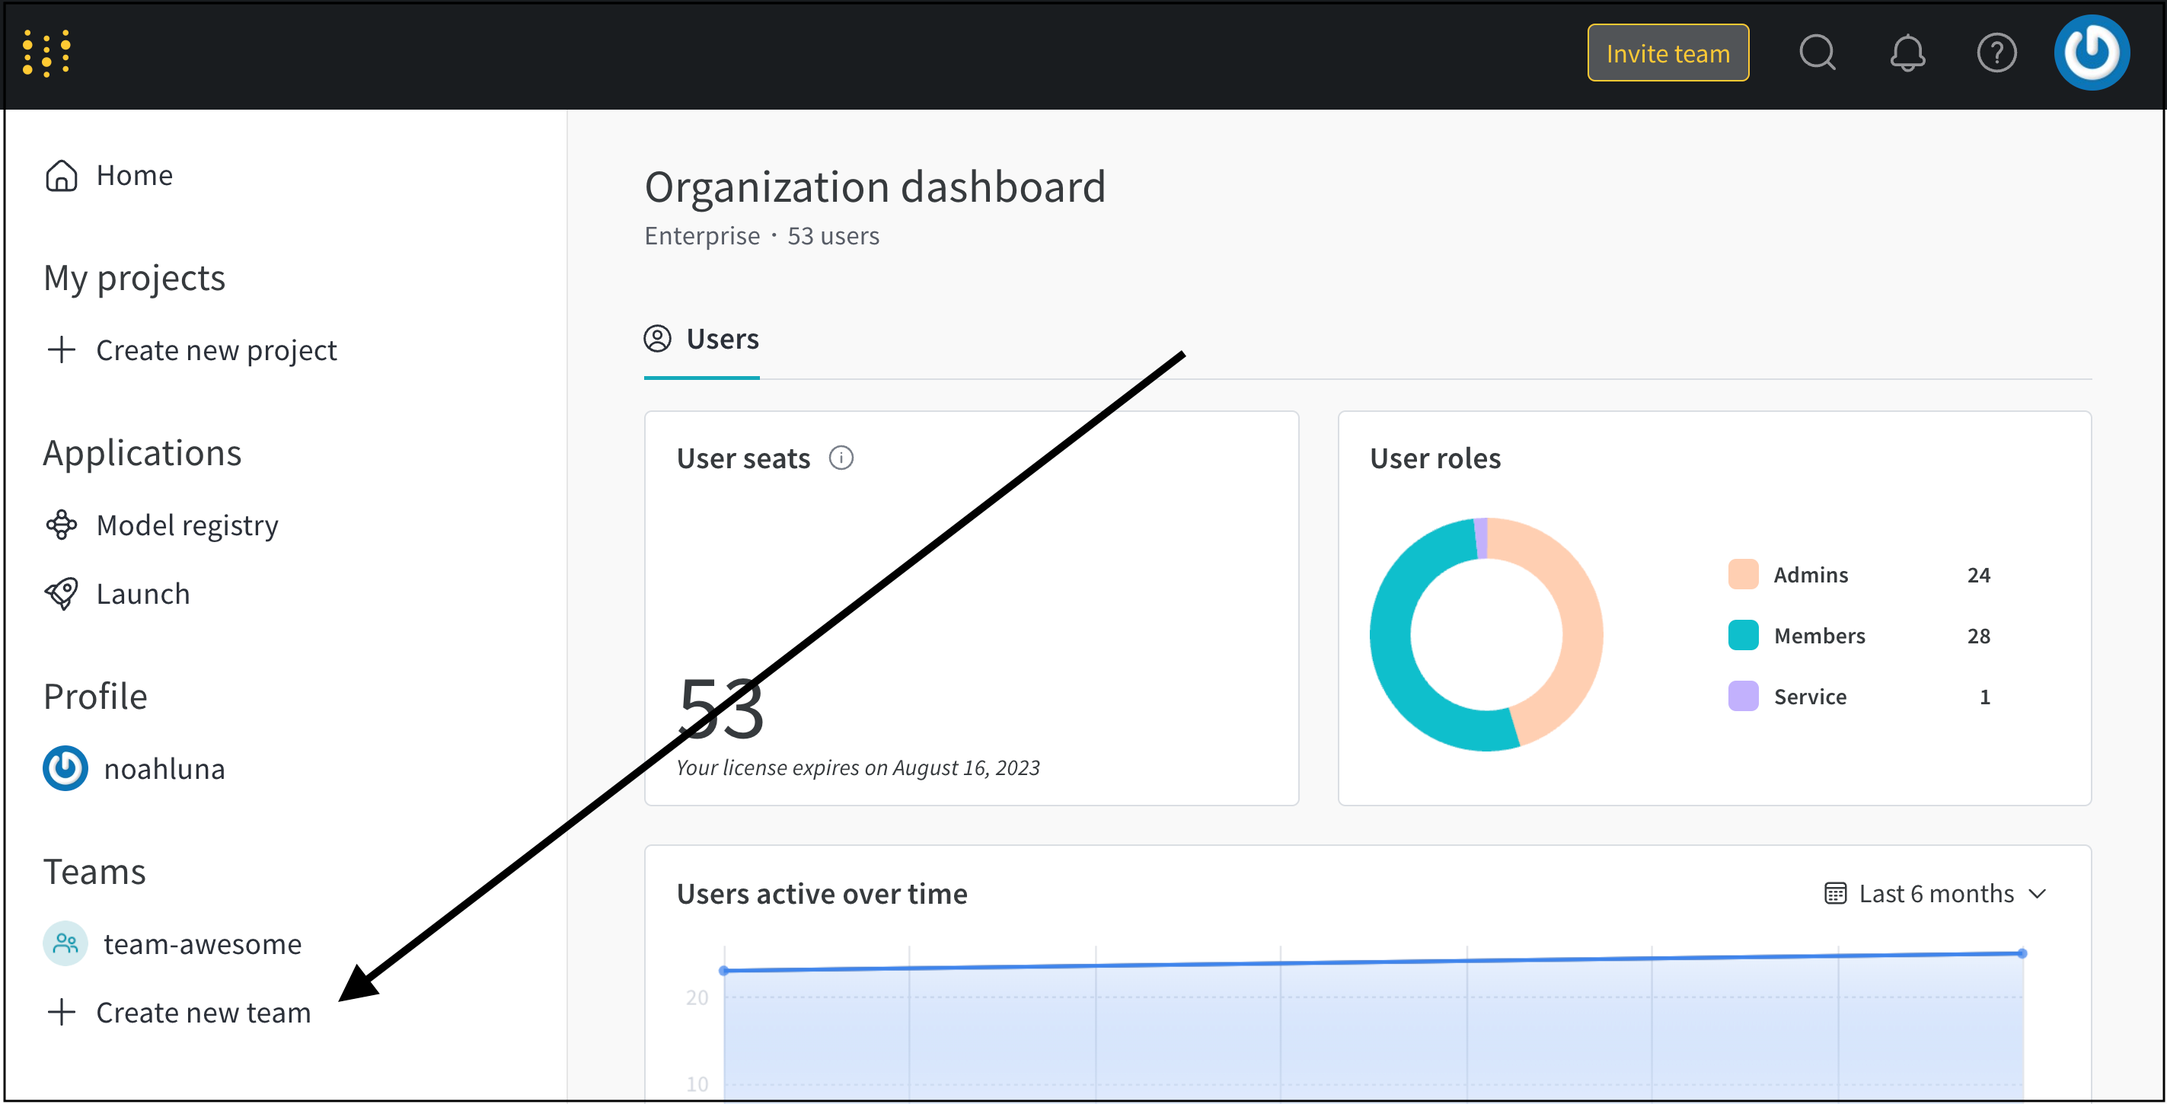
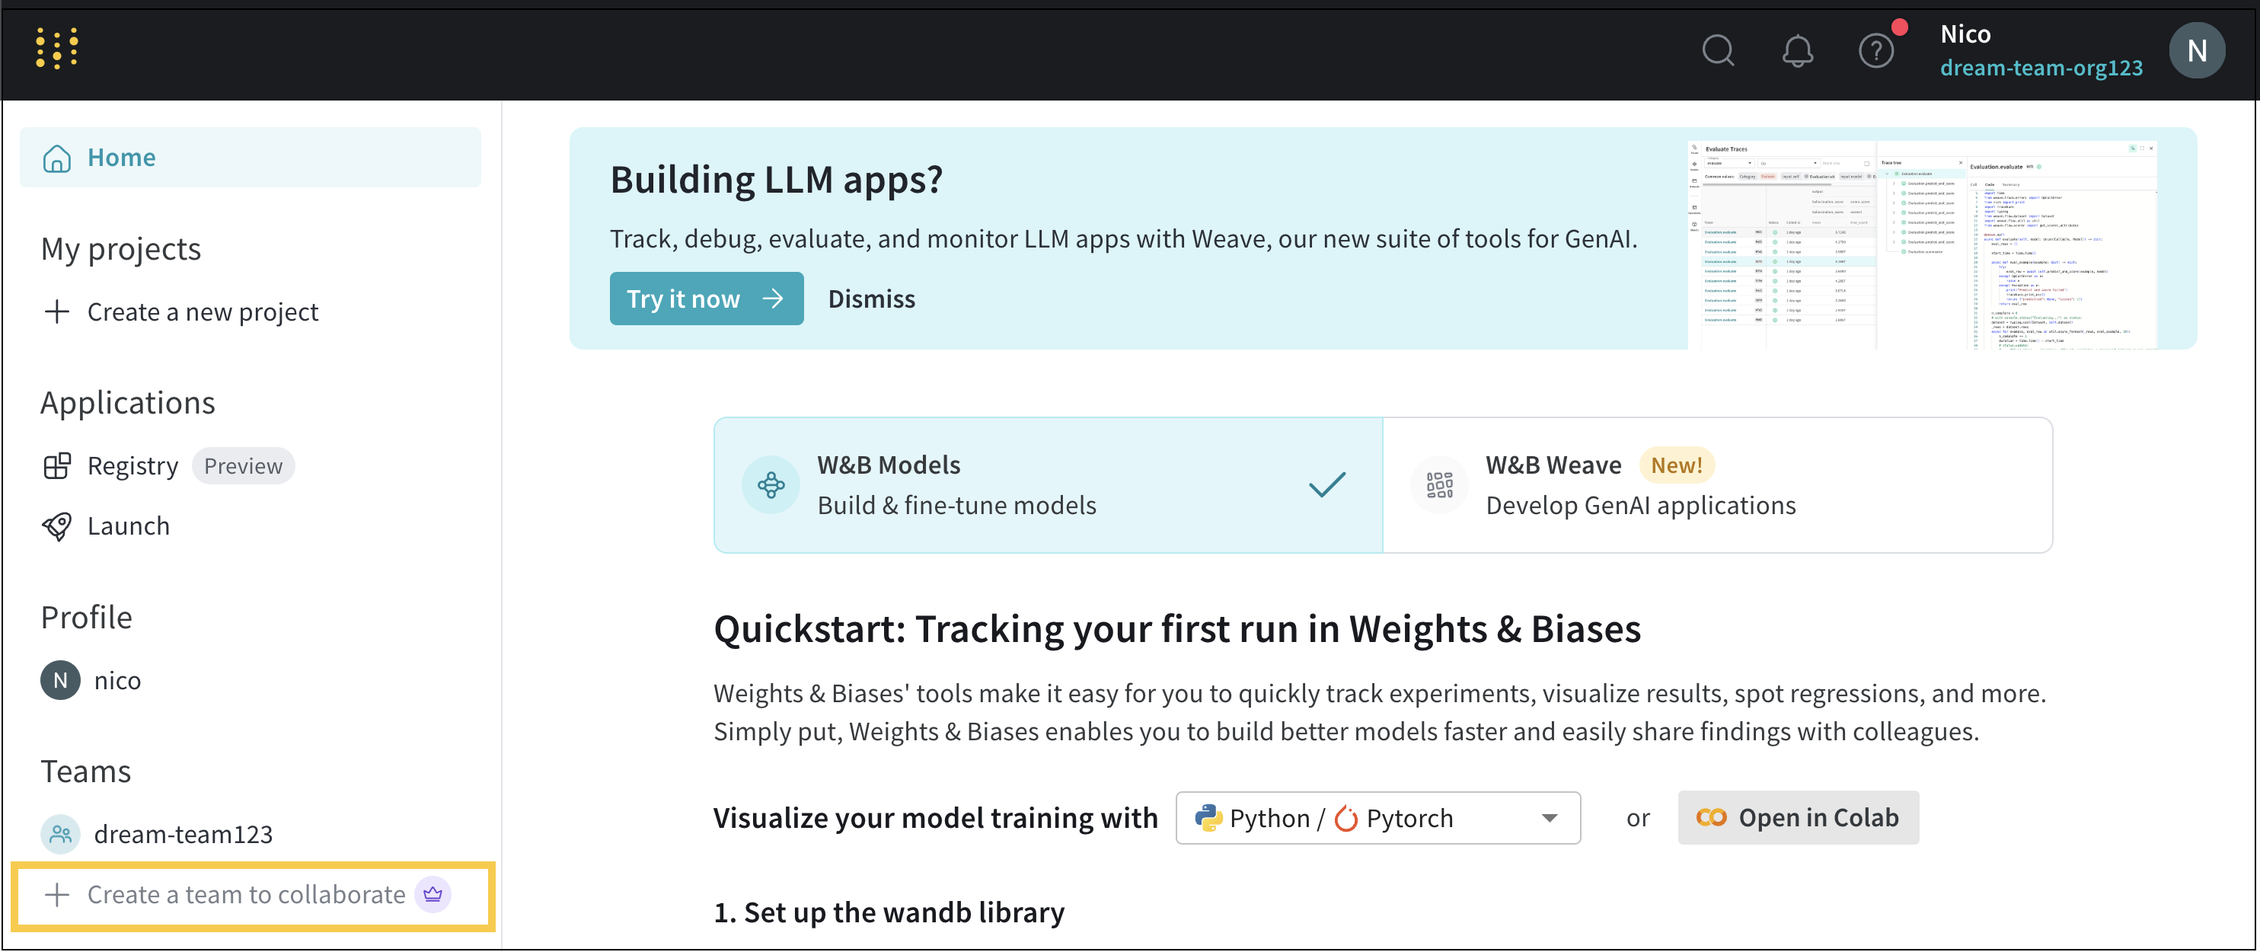
Add Manage your org doc and landing page for extra content...WIP

diff --git a/sidebars.js b/sidebars.js
@@ -393,8 +393,9 @@ const sidebars = {
             {
               type: 'category',
               label: 'Access management',
+              link: {type: 'doc', id: 'guides/hosting/iam/access-management-intro'},
               items: [
-                'guides/hosting/iam/manage-users',
+                'guides/hosting/iam/manage-organization',
                 'guides/hosting/iam/restricted-projects',
               ],
             },

diff --git a/docs/guides/hosting/iam/manage-organization.md b/docs/guides/hosting/iam/manage-organization.md
@@ -1,0 +1,187 @@
+---
+displayed_sidebar: default
+---
+
+# Mange your organization
+
+Manage W&B users in your organization or team. 
+
+The following guide applies to the administrator (admin) of an organization.
+
+
+If you are looking to simplify user management in your organization, refer to [Automate user and team management](./automate_iam.md).
+
+
+## Change the name of your organization
+
+
+
+## Add and manage users
+
+### Invite a user
+
+1. Navigate to your W&B Organization's dashboard at: https://wandb.ai/home
+2. Select the **Users** tab.
+3. Choose **Invite new user**.
+4. In the modal that appears, provide the email or username of the user in the Email or username field.
+5. (Optional but recommended) Add the user to a team from the **Choose team(s)** dropdown menu. You can alternatively [automatically assign a user to a team if their domain matches](#automatically-add-new-users-to-a-team). 
+6. From the **Select role** dropdown, select the role to assign to the user. You can change the user's role at a later time. See the table listed in [Assign a role](#assign-a-role) for more information about possible roles.
+7. Choose the **Send invite** button.
+
+An invite link is sent to the user's email after you select the **Send invite** button. Once a user accepts the invite, that user can access your W&B organization.
+
+
+W&B uses a third-party email server to send user invites. W&B provides an option to configure an internal SMTP server if you have a self-managed Dedicated cloud or Self-managed instance and your organization firewall rules restrict sending traffic outside the corporate network. Refer to [these instructions](../smtp.md) to setup the SMTP server.
+
+:::info
+The **Add user** option might be not be available if there are no more seats in the license. Reach out to your W&B team if you have difficulty adding users. 
+:::
+
+
+### Assign or update a user's role
+
+W&B assigns an Admin role to new users within an organization by default. You can assign a user's role when you invite them to an organization or and you can modify an existing user's role after they join your organization.
+
+A user within an organization can have one of the proceeding roles:
+
+| Role | Descriptions |
+| ----- | ----- |
+| Admin | A instance admin who can add or remove other users to the organization, change user roles, manage custom roles, add teams and more. W&B recommends more than one admin for an enterprise Dedicated cloud or Self-managed instances. |
+| Member | A regular user of the organization, invited by an instance admin. A organization user cannot invite other users or manage existing users in the organization. `Team admins` could add specific organization users to their respective teams (team-level roles described below in **Team roles**). |
+| Viewer | A view-only user of your organization, invited by an instance admin. A viewer only has read access to the organization and the underlying teams that they are a part of.  |
+
+
+### Remove a user
+
+1. Navigate to your W&B Organization's dashboard at: https://wandb.ai/home .
+2. Choose the User menu in the upper right corner of the organization dashboard. From the dropdown, Choose **Settings**.
+3. Select the **Users** tab.
+4. Search for the user you want to remove in the search bar.
+5. Select the ellipses or three dots icon (**...**) when it appears.
+6. From the dropdown, choose **Remove member**.
+
+### Assign the billing admin
+1. Navigate to your W&B Organization's dashboard at: https://wandb.ai/home .
+2. Choose the User menu in the upper right corner of the organization dashboard. From the dropdown, Choose **Settings**.
+3. Select the **Users** tab.
+4. Search for the user you want to remove in the search bar.
+5. Under the **Billing admin** column, choose the user you want to assign as the Billing admin.
+
+
+### User auto-provisioning
+
+[To do]
+
+
+## Add and manage teams
+Use a team's home page as the central hub to explore projects, reports, and runs. Within the team home page there is a **Settings** tab where you can add and manage users, set a team avatar, adjust privacy settings, set up alerts, track usage, and more. 
+
+
+:::info
+Team admins can add and remove users in their teams. A non-admin user in a team can not invite other users to that team, unless team admin enables relevant team settings.
+
+See [**Team roles**](#team-roles) for more information on available roles at the team level.
+:::
+
+If you're looking to simplify team management in your organization, refer to [Automate user and team management](./automate_iam.md).
+
+
+
+### Create a team
+1. Navigate to your W&B Organization's dashboard at: https://wandb.ai/home
+2. Select **Create a team to collaborate** on the left navigation panel underneath **Teams**.
+![](/images/hosting/create_new_team.png)
+3. A modal will appear. Prove a name for your team in the **Team name** field. 
+4. Select a storage type. 
+5. Choose on the **Create team** button.
+
+This will redirect you to a newly created Team home page at `https://wandb.ai/<team-name>` where `<team-name>` consists of the name you provide when you create a team.
+
+### Invite users to a team
+
+Invite users to a team with the W&B App UI. Members of a team inherit the organization that the team is a part of.
+
+1. Navigate to the team's dashboard at `https://wandb.ai/<team-name>`.
+2. Select **Team settings** in the global navigation on the left side of the dashboard.
+3. Select the **Users** tab.
+4. Choose on **Invite a new user**.
+5. Within the modal that appears, provide the email of the user in the **Email or username** field and select the role to assign to that user from the **Select a team** role dropdown. For more information about roles a user can have in a team, see [Team roles](#team-roles).
+6. Choose on the **Send invite** button.
+
+
+### Team roles
+The proceeding table lists the roles you can assign a member to when they join a team:
+
+| Role   |   Definition   |
+|-----------|---------------------------|
+| Admin     | A user who can add and remove other users in the team, change user roles, and configure team settings.   |
+| Member    | A regular user of a team, invited by email or their organization-level username by the team admin. A member user cannot invite other users to the team.  |
+| View-Only (Enterprise-only feature) | A view-only user of a team, invited by email or their organization-level username by the team admin. A view-only user only has read access to the team and its contents.  |
+| Service (Enterprise-only feature)   | A service worker or service account is an API key that is useful for utilizing W&B with your run automation tools. If you use an API key from a service account for your team, ensure to set the environment variable `WANDB_USERNAME`  to correctly attribute runs to the appropriate user. |
+| Custom Roles (Enterprise-only feature)   | Custom roles allow organization admins to compose new roles by inheriting from the above View-Only or Member roles, and adding additional permissions to achieve fine-grained access control. Team admins can then assign any of those custom roles to users in their respective teams. Refer to [this article](https://wandb.ai/wandb_fc/announcements/reports/Introducing-Custom-Roles-for-W-B-Teams--Vmlldzo2MTMxMjQ3) for details. |
+
+<!-- :::note
+W&B recommends to have more than one admin in a team. It is a best practice to ensure that admin operations can continue when the primary admin is not available.
+
+Refer to [Team Service Account Behavior](../../app/features/teams.md#team-service-account-behavior) for more information.
+::: -->
+
+
+:::note
+Only enterprise licenses on Dedicated Cloud or Self-managed deployment can assign custom roles to members in a team.
+:::
+
+### Automatically add new users to a team
+
+Automatically add new users to a team if the user's domain matches the domain of your organization. 
+
+<!-- Automatically assign new users that join an organization to one or more teams if the user's domain matches the organization's domain. -->
+
+Assigning a team to a user when they onboard helps ensure that that new user does not create assets outside of their organization's account. Assets a user creates outside of an organization is not transferred if that user joins the organization at a later date.
+
+
+:::info Existing users
+Existing users with verified email addresses that match your organization's domain can join your teams within your organization/
+
+Data that a user creates before that user joins an organization is preserved. Note that W&B does not migrate any assets a user creates outside of an organization.
+:::
+
+Before you can automatically assign new users to a specific team, you must enable domain matching within that team's settings: 
+
+1. Navigate to the team's dashboard at `https://wandb.ai/<team-name>`. Where `<team-name>` is the name of the team you want to enable domain matching.
+2. Select **Team settings** in the global navigation on the left side of the team's dashboard.
+3. Within the **Privacy** section, toggle the "Recommend new users with matching email domains join this team upon signing up" option.
+
+
+Once you enable domain matching for a team, you can now automatically assign new users to that team when they join your organization:
+
+:::note Domains must be unique
+Domains are unique identifiers. This means that you can not use a domain that is already in use by another organization. 
+:::
+
+1. Navigate to the organization's dashboard at https://wandb.ai/home.
+2. Choose the User menu in the upper right corner of the organization dashboard. From the dropdown, Choose **Settings**.
+3. Within the **Settings** tab, select **General**.
+4. Choose the **Claim domain** button within **Domain capture**.
+5. Provide the email domain in the **Email domain** field.
+6. Select the team that you want new users to automatically join from the **Default team** dropdown.
+7. Choose the **Claim email** domain button.
+
+
+A user that joins W&B with the same domain as your organization is automatically added to the team you specify in the preceding steps.
+
+
+### Remove users from a team
+Remove a user from a team within your organization. W&B preserves runs created in a team even if the user is no longer on the team.
+
+1. Navigate to the team's dashboard at `https://wandb.ai/<team-name>`.
+2. Select **Team settings** in the left navigation bar.
+3. Select the **Users** tab.
+4. Hover your mouse next to the ame of the user you want to delete. Select the ellipses or three dots icon (**...**) when it appears. 
+5. From the dropdown, select **Remove user**. 
+
+### Manage team storage
+
+## Create and assign custom roles
+
+## Privacy

diff --git a/docs/guides/hosting/iam/access-management-intro.md b/docs/guides/hosting/iam/access-management-intro.md
@@ -1,0 +1,33 @@
+---
+displayed_sidebar: default
+---
+
+# Access management
+
+
+## Instance Admins
+The first user to sign up after the W&B Server instance is initially deployed, is automatically assigned the instance `admin` role. The admin can then add additional users to the organization and create teams.
+
+:::note
+W&B recommends to have more than one instance admin in an organization. It is a best practice to ensure that admin operations can continue when the primary admin is not available. 
+:::
+
+## Enable SSO
+
+W&B strongly recommends and encourages that users authenticate to an organization using Single Sign-On (SSO). To learn more about how to setup SSO with Dedicated cloud or Self-managed instances, refer to [SSO with OIDC](./sso.md) or [SSO with LDAP](./ldap.md).
+
+:::note
+`Instance` or `organization` terms are used interchangeably within the context of Dedicated cloud or Self-managed instances.
+
+W&B is actively developing support for multiple organizations in an enterprise instance of Dedicated cloud or Self-managed. If you're interested in utilizing that capability, reach out to your W&B team.
+:::
+
+
+## User auto-provisioning
+If Single Sign-On (SSO) is setup for your enterprise W&B Server instance, any user in your company who has access to the instance URL can sign-in to the organization, provided the settings in your SSO provider allow so. When a user signs in for the first time using SSO, their W&B organization user will be automatically created without needing an instance admin to generate a user invite. This is a good alternative for adding users to your W&B organization at scale.
+
+User auto-provisioning with SSO on by default for W&B Server. It is possible to turn it `off` if you would like to selectively add specific users to your W&B organization. If you're on **Dedicated Cloud**, reach out to your W&B team. If you've a **Self-managed** deployment, you can configure the setting `DISABLE_SSO_PROVISIONING=true` for your W&B Server instance.
+
+:::note
+If auto-provisioning is on for your W&B Server instance, there may be a way to control which specific users can sign-in to the organization with your SSO provider to restrict the product use to relevant personnel. Extent of that configurability will depend on your SSO provider and is outside the scope of W&B documentation.
+:::

diff --git a/docs/guides/hosting/iam/scim.md b/docs/guides/hosting/iam/scim.md
@@ -328,7 +328,7 @@ This returns the User object.
 
 - **Endpoint**: **`<host-url>/scim/Users/{id}`**
 - **Method**: PATCH
-- **Description**: Assign an organization-level role to a user. The role can be one of `admin`, `viewer` or `member` as described [here](./manage-users#invite-users). For [SaaS Cloud](../hosting-options/saas_cloud.md), ensure that you have configured the correct organization for SCIM API in user settings.
+- **Description**: Assign an organization-level role to a user. The role can be one of `admin`, `viewer` or `member` as described [here](./manage-organization.md#invite-a-user). For [SaaS Cloud](../hosting-options/saas_cloud.md), ensure that you have configured the correct organization for SCIM API in user settings.
 - **Supported Fields**:
 
 | Field | Type | Required |
@@ -397,7 +397,7 @@ This returns the User object.
 
 - **Endpoint**: **`<host-url>/scim/Users/{id}`**
 - **Method**: PATCH
-- **Description**: Assign a team-level role to a user. The role can be one of `admin`, `viewer`, `member` or a custom role as described [here](./manage-users#team-roles). For [SaaS Cloud](../hosting-options/saas_cloud.md), ensure that you have configured the correct organization for SCIM API in user settings.
+- **Description**: Assign a team-level role to a user. The role can be one of `admin`, `viewer`, `member` or a custom role as described [here](./manage-organization.md#team-roles). For [SaaS Cloud](../hosting-options/saas_cloud.md), ensure that you have configured the correct organization for SCIM API in user settings.
 - **Supported Fields**:
 
 | Field | Type | Required |

diff --git a/docs/guides/hosting/data-security/presigned-urls.md b/docs/guides/hosting/data-security/presigned-urls.md
@@ -10,7 +10,7 @@ When needed, AI workloads or user browser clients within your network request pr
 
 ## Team-level access control
 
-Each pre-signed URL is restricted to specific bucket(s) based on [team level access control](../iam/manage-users.md#manage-a-team) in the W&B platform. If a user is part of a team which is mapped to a blob storage bucket using [secure storage connector](./secure-storage-connector.md), and if that user is part of only that team, then the pre-signed URLs generated for their requests would not have permissions to access blob storage buckets mapped to other teams. 
+Each pre-signed URL is restricted to specific bucket(s) based on [team level access control](../iam/manage-organization.md#add-and-manage-teams) in the W&B platform. If a user is part of a team which is mapped to a blob storage bucket using [secure storage connector](./secure-storage-connector.md), and if that user is part of only that team, then the pre-signed URLs generated for their requests would not have permissions to access blob storage buckets mapped to other teams. 
 
 :::info
 W&B recommends adding users to only the teams that they are supposed to be a part of.

diff --git a/docs/guides/hosting/monitoring-usage/audit-logging.md b/docs/guides/hosting/monitoring-usage/audit-logging.md
@@ -59,7 +59,7 @@ An instance admin can fetch the audit logs for your W&B server instance using th
 If your W&B Server instance URL is `https://mycompany.wandb.io` and you would like to get audit logs without PII for user activity within the last week, your API endpoint will be `https://mycompany.wandb.io?numDays=7&anonymize=true`.
 
 :::note
-Only W&B Server [instance admins](../iam/manage-users.md#instance-admins) are allowed to fetch audit logs using the API. If you are not an instance admin or not logged into your organization, you will get the `HTTP 403 Forbidden` error.
+Only W&B Server [instance admins](../iam/access-management-intro) can fetch audit logs using the API. If you are not an instance admin or not logged into your organization, you will get the `HTTP 403 Forbidden` error.
 :::
 
 The API response contains new-line separated JSON objects. Objects will include the fields described in the schema. It's the same format which is used when syncing audit log files to an instance-level bucket (wherever applicable as mentioned earlier). In those cases, the audit logs are located at the `/wandb-audit-logs` directory in your bucket.

diff --git a/docs/guides/hosting/hosting-options/dedicated_cloud.md b/docs/guides/hosting/hosting-options/dedicated_cloud.md
@@ -25,7 +25,7 @@ You can also privately connect to your Dedicated Cloud instance using [cloud pro
 Use the identity and access management capabilities for secure authentication and effective authorization in your W&B Organization. The following features are available for IAM in Dedicated Cloud instances:
 
 * Authenticate with [SSO using OpenID Connect (OIDC)](../iam/sso.md) or with [LDAP](../iam/ldap.md).
-* [Configure appropriate user roles](../iam/manage-users.md) at the scope of the organization and within a team.
+* [Configure appropriate user roles](../iam/manage-organization.md#assign-or-update-a-users-role) at the scope of the organization and within a team.
 * Define the scope of a W&B project to limit who can view, edit, and submit W&B runs to it with [restricted projects](../iam/restricted-projects.md).
 * Leverage JSON Web Tokens with [identity federation](../iam/identity_federation.md) to access W&B APIs.
 

diff --git a/docs/guides/hosting/hosting-options/saas_cloud.md b/docs/guides/hosting/hosting-options/saas_cloud.md
@@ -19,7 +19,7 @@ Enterprise plan users can [bring their own bucket (BYOB) using the secure storag
 If you are on enterprise plan, you can use the identity and access managements capabilities for secure authentication and effective authorization in your W&B Organization. The following features are available for IAM in Multi-tenant Cloud:
 
 * SSO authentication with OIDC or SAML. Reach out to your W&B team or support if you would like to configure SSO for your organization.
-* [Configure appropriate user roles](../iam/manage-users.md) at the scope of the organization and within a team.
+* [Configure appropriate user roles](../iam/manage-organization.md#assign-or-update-a-users-role) at the scope of the organization and within a team.
 * Define the scope of a W&B project to limit who can view, edit, and submit W&B runs to it with [restricted projects](../iam/restricted-projects.md).
 
 ## Monitor

diff --git a/docs/guides/technical-faq/admin.md b/docs/guides/technical-faq/admin.md
@@ -57,4 +57,4 @@ You should check the `Debug Bundle`. An admin of the instance can get it from th
 
 ### If I am the admin of my local instance, how should I manage it?
 
-If you are the admin of your instance, go through our [User Management](../hosting/iam/manage-users.md) section to learn how to add users to the instance and create teams.
+If you are the admin of your instance, go through our [User Management](../hosting/iam/manage-organization.md) section to learn how to add users to the instance and create teams.
